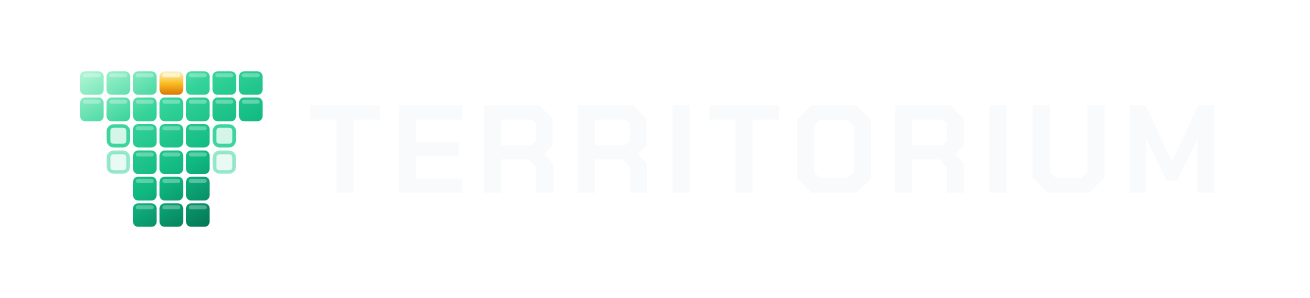
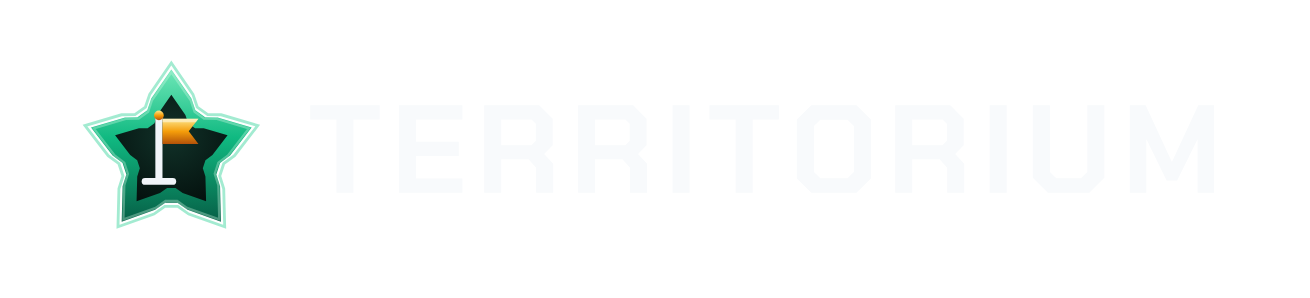
New star-fort emblem: pentagonal bastion fort with a planted flag
Replaces the tile T with a Vauban-style star fort (emerald ramparts, dark
courtyard, gold flag). Regenerates the logo lockups, brand PNGs and PWA icons.

Changed region(s): [[0.0611, 0.2114, 0.2137, 0.7852]]

diff --git a/src/client/styles.css b/src/client/styles.css
@@ -10,7 +10,7 @@
   --default-ring-color: var(--color-brand);
   --font-display: "Territorium Display", Inter, Arial, sans-serif;
 
-  /* Territorium brand palette — emerald territory, gold crown (see the
+  /* Territorium brand palette — emerald fort, gold flag (see the
      emblem in brand/images/Favicon.svg). */
   --color-brand: #059669;
   --color-brand-light: #10b981;
